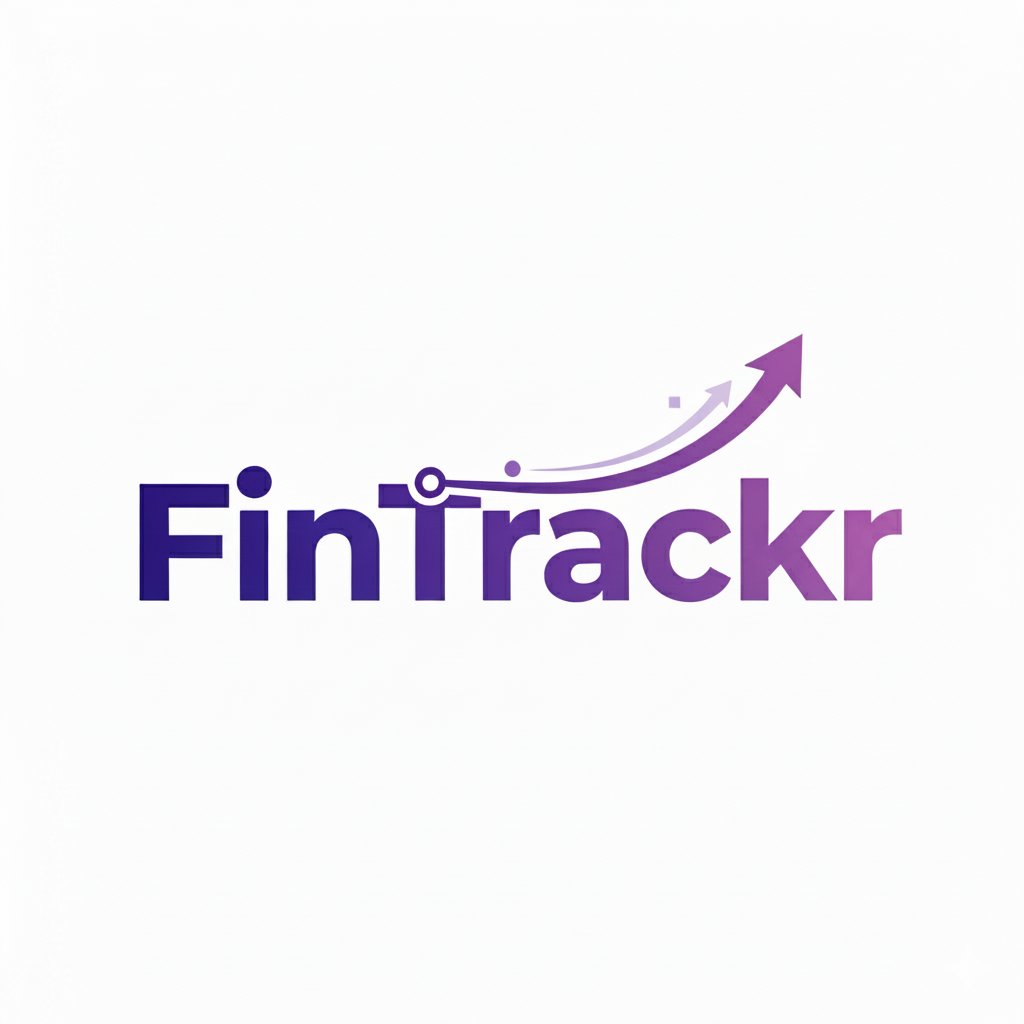
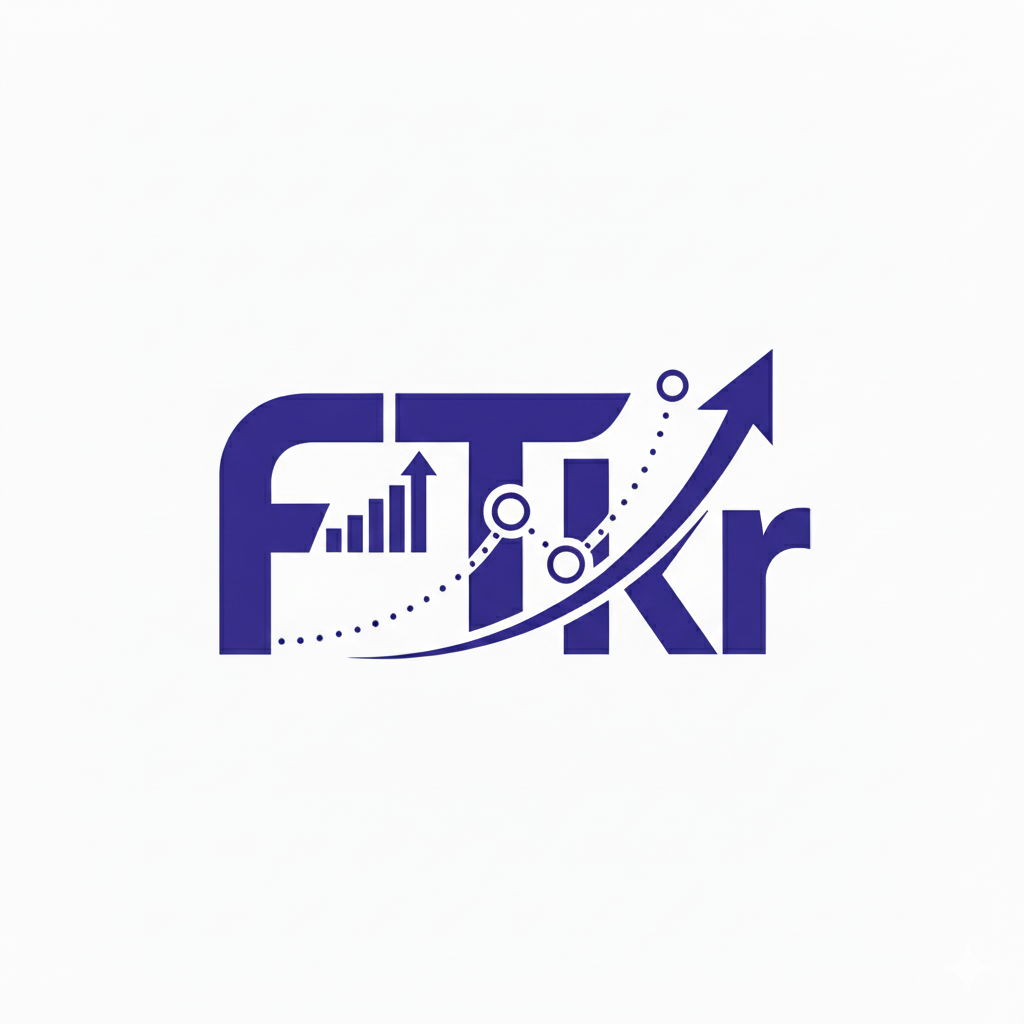
feat: Update splash screen assets and remove unused demo screens

Changed region(s): [[0.125, 0.3125, 0.9062, 0.6562]]

diff --git a/react-native/src/screens/SplashScreen.tsx b/react-native/src/screens/SplashScreen.tsx
@@ -35,13 +35,13 @@ export const SplashScreen: React.FC<SplashScreenProps> = ({ onFinish }) => {
   }, []);
 
   return (
-    <View className="flex-1 justify-center items-center bg-white">
+    <View className="flex-1 justify-center items-center">
       <Animated.View
         className="items-center"
         style={{ opacity: fadeAnim, transform: [{ scale: scaleAnim }] }}
       >
         <Image
-          source={{ uri: 'https://ik.imagekit.io/swiftChat/fintrackr/auth-logo.webp' }}
+          source={{ uri: 'https://ik.imagekit.io/swiftChat/fintrackr/splash-icon.png' }}
           style={{ width: 230, height: 120, marginBottom: 18 }}
           resizeMode="contain"
         />

diff --git a/react-native/src/navigation/AppNavigator.tsx b/react-native/src/navigation/AppNavigator.tsx
@@ -18,7 +18,6 @@ import {
   AddBudgetScreen,
   PredictionsScreen,
   SettingsScreen,
-  SplashDemoScreen,
   
   ToastTestScreen,
 } from '../screens';
@@ -77,7 +76,6 @@ export const AppNavigator = () => {
         <Stack.Screen name="CategoryDetail" component={CategoryDetailScreen} />
         <Stack.Screen name="Budgets" component={BudgetsScreen} />
         <Stack.Screen name="AddBudget" component={AddBudgetScreen} />
-        <Stack.Screen name="SplashDemo" component={SplashDemoScreen} />
         <Stack.Screen name="ToastTest" component={ToastTestScreen} />
       </Stack.Navigator>
     </NavigationContainer>

diff --git a/react-native/src/screens/LoginScreen.tsx b/react-native/src/screens/LoginScreen.tsx
@@ -142,7 +142,7 @@ export const LoginScreen: React.FC = () => {
           <View className="items-center">
             <Image
               source={{
-                uri: "https://ik.imagekit.io/swiftChat/fintrackr/auth-logo.webp",
+                uri: "https://ik.imagekit.io/swiftChat/fintrackr/splash-icon.png",
               }}
               style={styles.logo}
               resizeMode="contain"
@@ -240,7 +240,7 @@ export const LoginScreen: React.FC = () => {
 
 const styles = StyleSheet.create({
   logo: {
-    width: 220,
+    width: 320,
     height: 110,
   },
   googleButton: {

diff --git a/react-native/src/screens/index.ts b/react-native/src/screens/index.ts
@@ -10,8 +10,6 @@ export { AddBudgetScreen } from './AddBudgetScreen';
 export { PredictionsScreen } from './PredictionsScreen';
 export { SettingsScreen } from './SettingsScreen';
 export { SplashScreen } from './SplashScreen';
-export { SplashDemoScreen } from './SplashDemoScreen';
-// preview/demo screens removed
 export { OnboardingScreen } from './OnboardingScreen';
 export { LoginScreen } from './LoginScreen';
 export { SignupScreen } from './SignupScreen';
